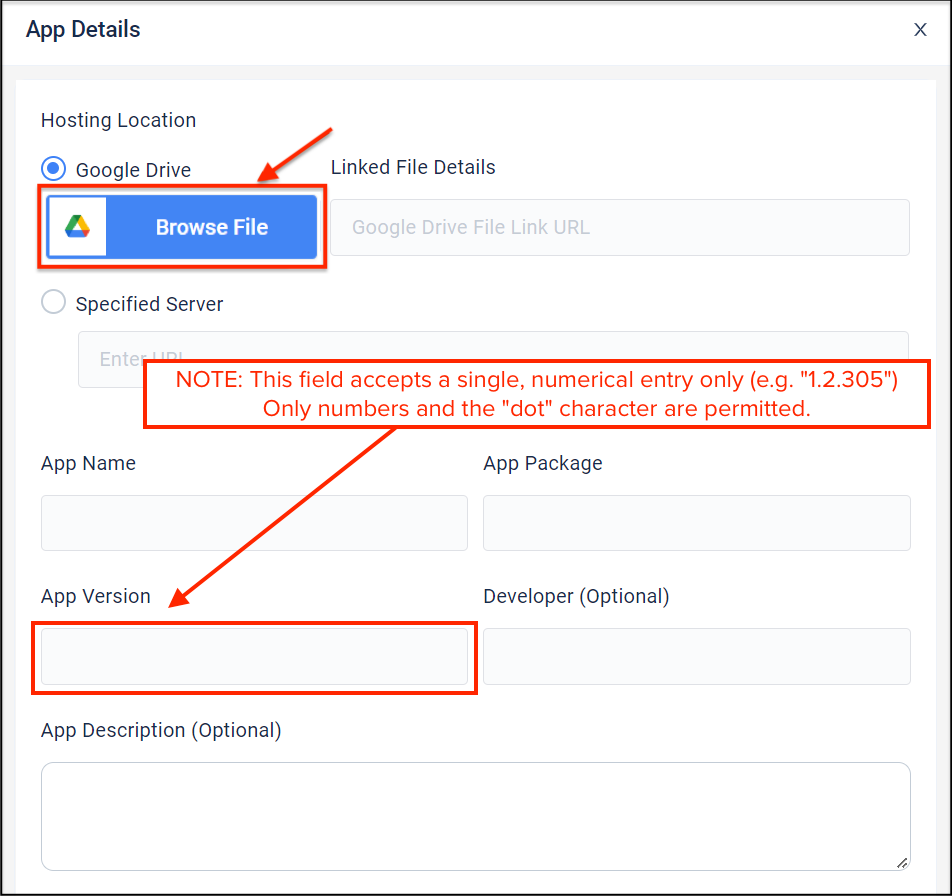
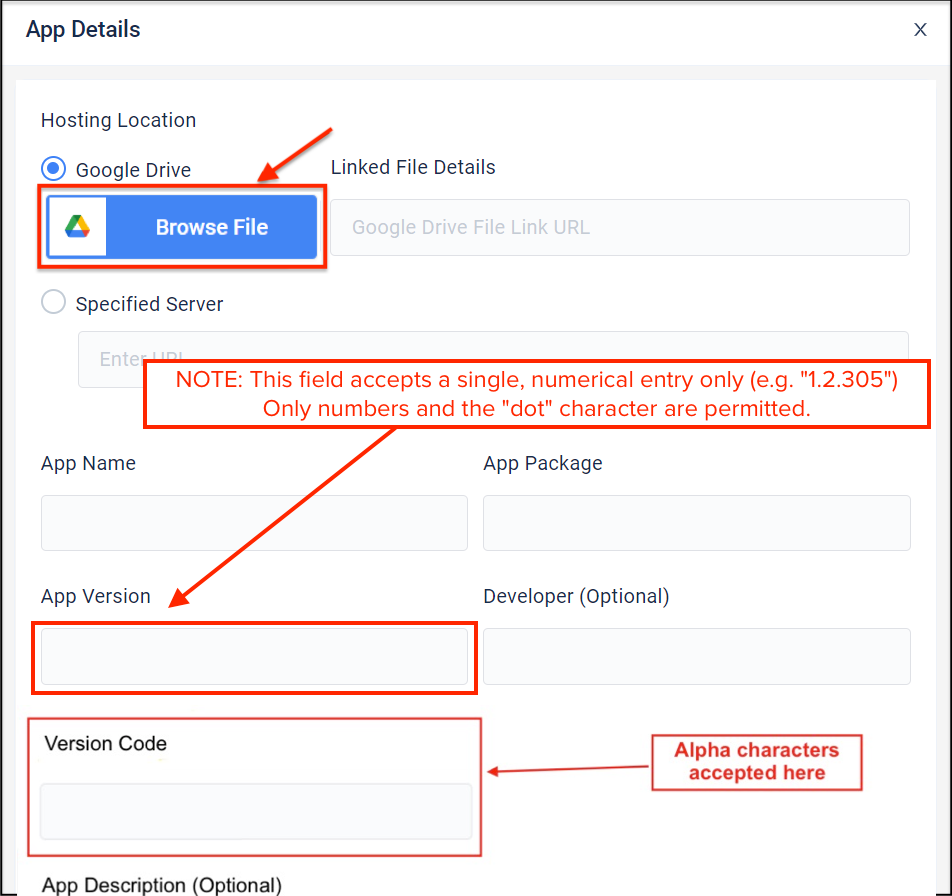
[TUT-111006] ZDNA 5.6 updates, per eng

Changed region(s): [[0.0305, 0.7812, 0.9748, 1.0]]

diff --git a/zebradna/5-6/about/index.html b/zebradna/5-6/about/index.html
@@ -272,13 +272,15 @@
 <h2 id="newinzdna56" class="anchor"><a class="heading-anchor" href="#newinzdna56"><span></span></a>New in ZDNA 5.6</h2>
 
 <ul>
-<li>Supports the addition of <a href="../usage/#myapps">alpha characters for "My Apps" versioning</a> </li>
+<li><strong>Supports alpha characters</strong> for <a href="../usage/#myapps">"My Apps" versioning</a> </li>
 
-<li>Integrates with new back-end licensing system, enhancing capabilities. <a href="../licensing/#changeswithzdna56">Learn more</a>. </li>
+<li><strong>Integrates with new back-end licensing system</strong>, enhancing capabilities. <a href="../licensing/#changeswithzdna56">Learn more</a>. </li>
 
-<li>Streamlines workflow in numerous sections with addition of a "Refresh" button  </li>
+<li><strong>Adds a "Refresh" button</strong> in many sections, streamlining workflow:
+<img alt="image" style="height:250px" src="56_refresh.png">
+<em>Click image to enlarge; ESC to exit</em>.</li>
 
-<li>Numerous additional UI features and enhancements </li>
+<li>Numerous additional UI features and enhancements</li>
 
 <li>Adds support for PS30 devices running Android 14</li>
 </ul>

diff --git a/zebradna/5-6/licensing/index.html b/zebradna/5-6/licensing/index.html
@@ -318,7 +318,7 @@
 
 <p>After licensing ZDNA (through one of the contacts above), a confirmation email is containing the <strong>Badge ID</strong> along with purchase confirmation. </p>
 
-<p><img alt="image" style="height:450px" src="CLS ID Letter.png">
+<p><img alt="image" style="height:450px" src="56_license_ack.jpg">
 <em>Click image to enlarge; ESC to exit.</em>
 <br></p>
 
